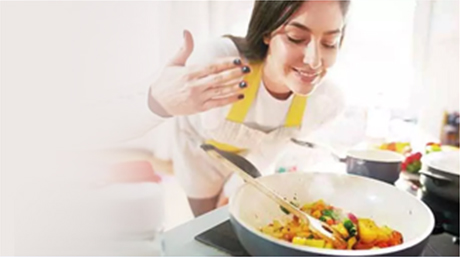
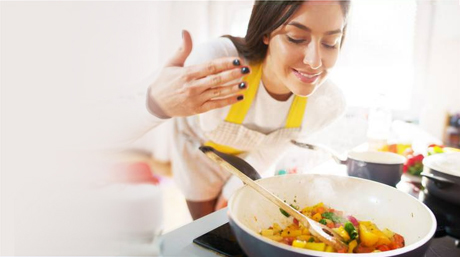
responsive from the first ready

diff --git a/_sass/first.scss b/_sass/first.scss
@@ -1,16 +1,98 @@
 // familia tomando agua scss
 .first {
   background-image: url("images/banner-index1.jpg");
-  background-size: contain;
-  background-repeat: no-repeat;
+  background-size: cover;
+
+  @media (min-width: 960px) {  
+    background-size: contain;
+    background-repeat: no-repeat;
+  }
 
   p {
     font-weight: bold;
-    font-size: 14px;
-    padding-bottom: 50px;
-    padding-top: 52px;
-    padding-left: 24px;
+    font-size: 16px;
+    padding-top: 68px;
     padding-right: 122px;
+    padding-bottom: 60px;
+    padding-left: 24px;
     margin-bottom: 0;
+
+    @media (min-width: 383px) {
+      font-size: 16px;
+      padding-top: 72px;
+      padding-right: 152px;
+      padding-bottom: 70px;
+      padding-left: 24px;
+    }
+
+    @media (min-width: 413px) {
+      font-size: 18px;
+      padding-top: 76px;
+      padding-right: 152px;
+      padding-bottom: 72px;
+      padding-left: 24px;
+    }
+
+    @media (min-width: 427px) {
+      font-size: 18px;
+      padding-top: 80px;
+      padding-right: 160px;
+      padding-bottom: 78px;
+      padding-left: 24px;
+    }
+
+    @media (min-width: 960px) {
+      font-weight: bold;
+      font-size: 14px;
+      padding-top: 52px;
+      padding-right: 110px;
+      padding-bottom: 50px;
+      padding-left: 24px;
+      margin-bottom: 0;
+    }
+
+    @media (min-width: 1079px) {
+      font-weight: bold;
+      font-size: 14px;
+      padding-top: 52px;
+      padding-right: 120px;
+      padding-bottom: 50px;
+      padding-left: 24px;
+      margin-bottom: 0;
+    }
+
+
+    @media (min-width: 1279px) {
+      font-weight: bold;
+      font-size: 14px;
+      padding-top: 52px;
+      padding-right: 122px;
+      padding-bottom: 50px;
+      padding-left: 24px;
+      margin-bottom: 0;
+    }
   }
+}
+
+
+
+@media (min-width: 413px) {
+  right: 18%;
+  top: 15%;
+}
+
+@media (min-width: 959px) {
+  right: 1%;
+}
+
+@media (min-width: 1079px) {
+  right: 5%;
+}
+
+@media (min-width: 1279px) {
+  right: 12%;
+}
+
+@media (min-width: 1439px) {
+  right: 16%;
 }

diff --git a/_includes/first.html b/_includes/first.html
@@ -2,7 +2,9 @@
 	<div class="w-100 h-100">
 		<p>
 			Quer receber novas
+			<br>
 		 	receitas rápidas de fazer
+		 	<br>
 		 	e deliciosas de comer?
 		</p>
 	</div>
